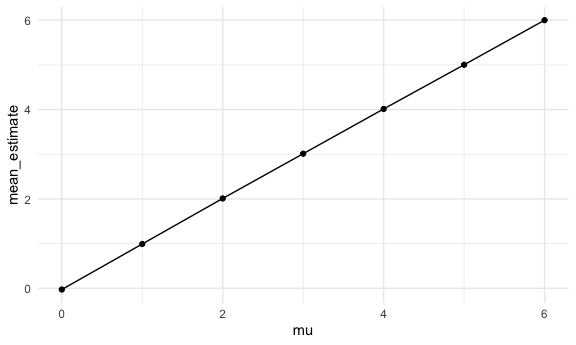
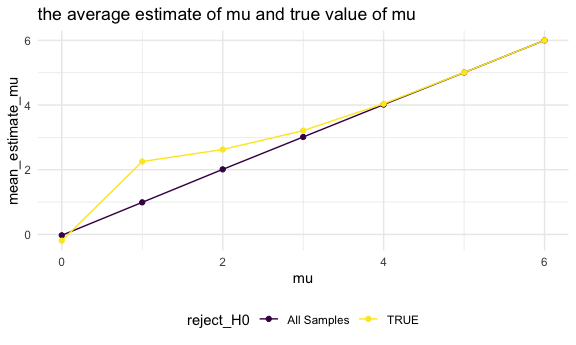
plots

diff --git a/p8105_hw5_dt2833.md b/p8105_hw5_dt2833.md
@@ -268,60 +268,48 @@ sim_results_df =
 Plots
 
 ``` r
+#the average estimate of mu and true value of mu
 sim_results_df |> 
 group_by(mu) |> 
-  summarize(prob_of_rejectH0 = mean(reject_H0)) |> 
+ summarize(prob_of_rejectH0 = mean(reject_H0)) |> 
   ggplot(aes(x = mu, y = prob_of_rejectH0)) + 
   geom_point() + 
-  geom_line()
+  geom_line()+
+   labs( title = "the proportion of times the null was rejected and true value of mu")
 ```
 
 <img src="p8105_hw5_dt2833_files/figure-gfm/unnamed-chunk-9-1.png" alt="" width="90%" />
 
 ``` r
+#dataset of the average estimate of 𝜇 for all samples
+mean_estimate_df = 
 sim_results_df |> 
  group_by(mu) |> 
-  summarize(mean_estimate = mean(estimate)) |> 
-  ggplot(aes(x = mu, y = mean_estimate)) + 
-  geom_point() + 
-  geom_line() 
+  summarize(mean_estimate_mu = mean(estimate)) 
+
+#dataset of the average estimate of 𝜇 for only in samples for which the null was rejected
+reject_H0_df = 
+sim_results_df |> 
+  filter(reject_H0 == TRUE )|>
+ group_by(mu,reject_H0) |> 
+  summarize(mean_estimate_mu = mean(estimate)) 
+```
+
+    ## `summarise()` has regrouped the output.
+    ## ℹ Summaries were computed grouped by mu and reject_H0.
+    ## ℹ Output is grouped by mu.
+    ## ℹ Use `summarise(.groups = "drop_last")` to silence this message.
+    ## ℹ Use `summarise(.by = c(mu, reject_H0))` for per-operation grouping
+    ##   (`?dplyr::dplyr_by`) instead.
+
+``` r
+#the average estimate of mu and true value of mu
+ggplot() + 
+  geom_point(data = mean_estimate_df, aes(x = mu, y = mean_estimate_mu, color= "All Samples")) + 
+  geom_line(data = mean_estimate_df, aes(x = mu, y = mean_estimate_mu, color= "All Samples")) + 
+  geom_point(data = reject_H0_df, aes(x = mu, y = mean_estimate_mu,color= reject_H0)) + 
+  geom_line(data = reject_H0_df, aes(x = mu, y = mean_estimate_mu,color= reject_H0)) + 
+  labs( title = "the average estimate of mu and true value of mu")
 ```
 
 <img src="p8105_hw5_dt2833_files/figure-gfm/unnamed-chunk-9-2.png" alt="" width="90%" />
-
-``` r
-sim_results_df |> 
- group_by(mu, reject_H0) |> 
-  summarize(mean_estimate = mean(estimate)) |> 
-  ggplot(aes(x = mu, y = mean_estimate, group =reject_H0, color= reject_H0)) + 
-  geom_point() + 
-  geom_line() 
-```
-
-    ## `summarise()` has regrouped the output.
-    ## ℹ Summaries were computed grouped by mu and reject_H0.
-    ## ℹ Output is grouped by mu.
-    ## ℹ Use `summarise(.groups = "drop_last")` to silence this message.
-    ## ℹ Use `summarise(.by = c(mu, reject_H0))` for per-operation grouping
-    ##   (`?dplyr::dplyr_by`) instead.
-
-<img src="p8105_hw5_dt2833_files/figure-gfm/unnamed-chunk-9-3.png" alt="" width="90%" />
-
-``` r
-sim_results_df |> 
-  filter(reject_H0 == TRUE )|>
- group_by(mu, reject_H0) |> 
-  summarize(mean_estimate = mean(estimate)) |> 
-  ggplot(aes(x = mu, y = mean_estimate)) + 
-  geom_point() + 
-  geom_line() 
-```
-
-    ## `summarise()` has regrouped the output.
-    ## ℹ Summaries were computed grouped by mu and reject_H0.
-    ## ℹ Output is grouped by mu.
-    ## ℹ Use `summarise(.groups = "drop_last")` to silence this message.
-    ## ℹ Use `summarise(.by = c(mu, reject_H0))` for per-operation grouping
-    ##   (`?dplyr::dplyr_by`) instead.
-
-<img src="p8105_hw5_dt2833_files/figure-gfm/unnamed-chunk-9-4.png" alt="" width="90%" />
